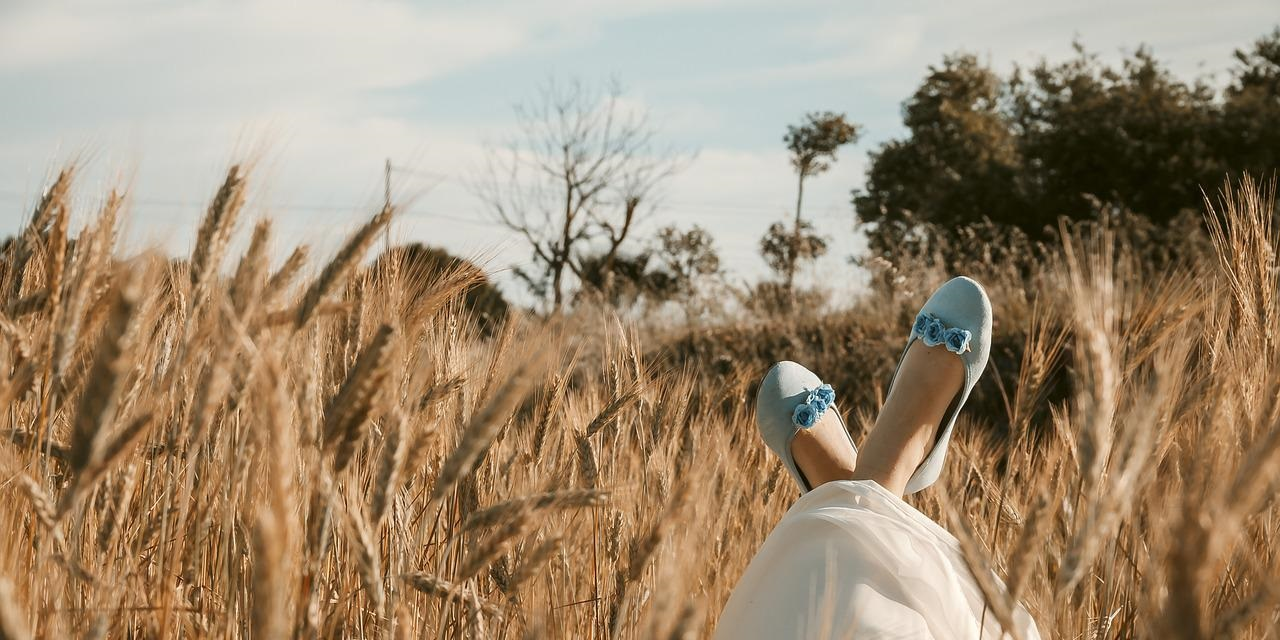
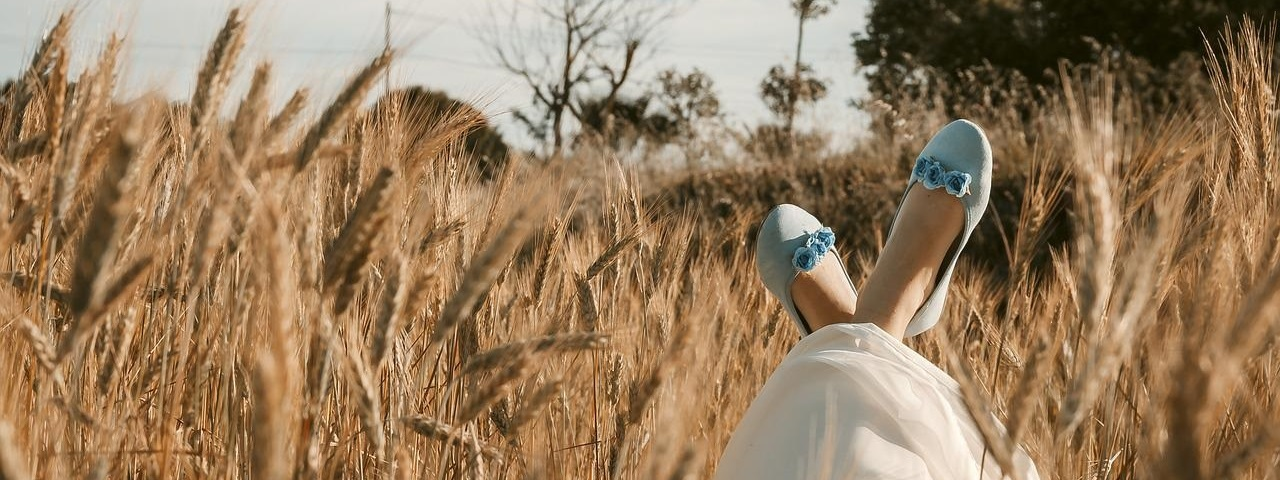
feat: Hero image en el inicio de la página
Se remueve el slider de imágenes antiguamente presentado en el inicio de
la ṕágina y se coloca una única imágen estática con un mensaje para el
usuario

diff --git a/index.html b/index.html
@@ -93,49 +93,22 @@
 
   </header>
 
+  <div class="jumbotron jumbotron-fluid text-white shadow jumbotron-image" style="background-image: url(./img/carousel/carousel-2.jpg);">
+    <div class="container p-5">
+      <div class="row row-cols-1 justify-content-center">
+        <div class="col text-center">
+          <h2>Bienvenido a OutShoes</h2>
+        </div>
+        <div class="col text-center">
+          <p>Las mejores ofertas en calzado al alcance de un clic</p>
+        </div>
+      </div>
+    </div>
+  </div>
 
   <div class="container my-5" role="main">
 
         <!-- A partir de aquí se modifica el cuerpo de la página -->
-
-    <div id="carouselExampleCaptions" class="carousel slide" data-ride="carousel">
-      <ol class="carousel-indicators">
-        <li data-target="#carouselExampleCaptions" data-slide-to="0" class="active"></li>
-        <li data-target="#carouselExampleCaptions" data-slide-to="1"></li>
-        <li data-target="#carouselExampleCaptions" data-slide-to="2"></li>
-      </ol>
-      <div class="carousel-inner">
-        <div class="carousel-item active">
-          <img src="./img/carousel/carousel-1.jpg" class="d-block w-100 rounded" alt="...">
-          <div class="carousel-caption d-none d-md-block">
-            <h5>Libérate</h5>
-            <p>Aprovecha nuestros descuentos para comprarte el calzado perfecto para tu viaje.</p>
-          </div>
-        </div>
-        <div class="carousel-item">
-          <img src="./img/carousel/carousel-2.jpg" class="d-block w-100 rounded" alt="...">
-          <div class="carousel-caption d-none d-md-block">
-            <h5>Estilo y seguridad</h5>
-            <p>Nuestras botas y botines ofrecen seguridad sin dejar de lado el estilo.</p>
-          </div>
-        </div>
-        <div class="carousel-item">
-          <img src="./img/carousel/carousel-3.jpg" class="d-block w-100 rounded" alt="...">
-          <div class="carousel-caption d-none d-md-block">
-            <h5>Todo terreno</h5>
-            <p>Asfalto, tierra o lodo... Conquista cualquier terreno con tu calzado favorito.</p>
-          </div>
-        </div>
-      </div>
-      <button class="carousel-control-prev" type="button" data-target="#carouselExampleCaptions" data-slide="prev">
-        <span class="carousel-control-prev-icon" aria-hidden="true"></span>
-        <span class="sr-only">Previous</span>
-      </button>
-      <button class="carousel-control-next" type="button" data-target="#carouselExampleCaptions" data-slide="next">
-        <span class="carousel-control-next-icon" aria-hidden="true"></span>
-        <span class="sr-only">Next</span>
-      </button>
-    </div>
 
       <div class="row mt-5">
         <div class="col">

diff --git a/css/styles.css b/css/styles.css
@@ -192,3 +192,9 @@ footer {
   }
 
 /* Terminan configuraciones de la NavBar */ 
+
+.jumbotron-image {
+  background-position: center;
+  background-repeat: no-repeat;
+  background-size: cover;
+}
